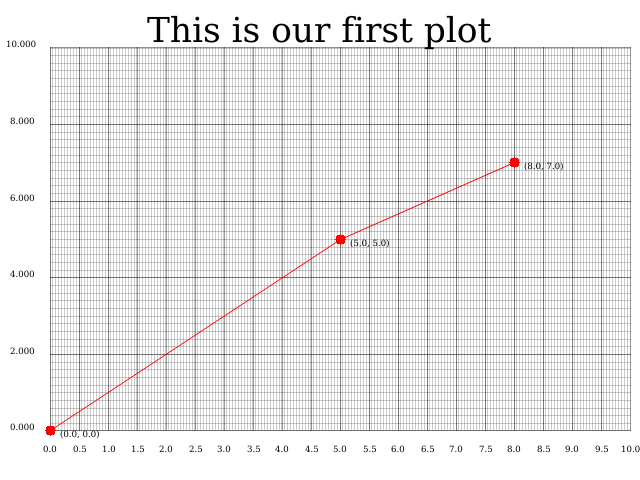
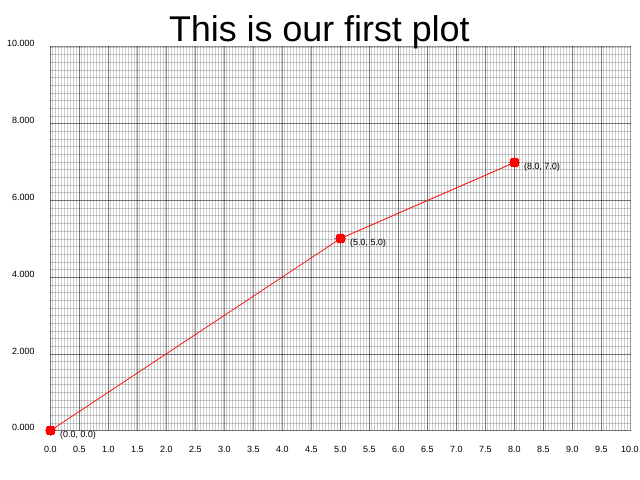
Update

diff --git a/src/lib.rs b/src/lib.rs
@@ -13,7 +13,7 @@ fn main() -> Result<(), Box<dyn std::error::Error>> {
     let mut backend = BitMapBackend::new("examples/outputs/0.png", (640,480));
     backend.open()?;
     let root:DrawingArea<_,_> = backend.into();
-    let font = Into::<FontDesc>::into("DejaVu Serif").resize(20.0);
+    let font = Into::<FontDesc>::into("Arial").resize(20.0);
     root.fill(&RGBColor(255,255,255))?;
     let mut chart = ChartBuilder::on(&root)
         .caption("y=x^2", &font)
@@ -129,7 +129,7 @@ fn main() -> Result<(), Box<dyn std::error::Error>> {
     root.fill(&RGBColor(240,200,200))?;
 
     let root = root.apply_coord_spec(RangedCoord::<RangedCoordf32, RangedCoordf32>::new(0f32..1f32, 0f32..1f32, (0..640, 0..480)));
-    let font = Into::<FontDesc>::into("DejaVu Serif").resize(15.0);
+    let font = Into::<FontDesc>::into("Arial").resize(15.0);
 
     let dot_and_label = |x:f32,y:f32| {
         return EmptyElement::at((x,y))
@@ -162,7 +162,7 @@ fn main() -> Result<(), Box<dyn std::error::Error>> {
     root.fill(&RGBColor(255,255,255));
     let root = root.margin(10,10,10,10);
     // After this point, we should be able to draw construct a chart context
-    let font:FontDesc = Into::<FontDesc>::into("DejaVu Serif").resize(40.0);
+    let font:FontDesc = Into::<FontDesc>::into("Arial").resize(40.0);
     // Create the chart object
     let mut chart = ChartBuilder::on(&root)
         // Set the caption of the chart

diff --git a/examples/quick_start.rs b/examples/quick_start.rs
@@ -3,7 +3,7 @@ fn main() -> Result<(), Box<dyn std::error::Error>> {
     let mut backend = BitMapBackend::new("examples/outputs/0.png", (640, 480));
     backend.open()?;
     let root: DrawingArea<_, _> = backend.into();
-    let font = Into::<FontDesc>::into("DejaVu Serif").resize(20.0);
+    let font = Into::<FontDesc>::into("Arial").resize(20.0);
     root.fill(&RGBColor(255, 255, 255))?;
     let mut chart = ChartBuilder::on(&root)
         .caption("y=x^2", &font)

diff --git a/examples/histogram.rs b/examples/histogram.rs
@@ -3,7 +3,7 @@ fn main() -> Result<(), Box<dyn std::error::Error>> {
     let mut backend = BitMapBackend::new("examples/outputs/histogram.png", (640, 480));
     backend.open()?;
     let root: DrawingArea<_, _> = backend.into();
-    let font = Into::<FontDesc>::into("DejaVu Serif").resize(20.0);
+    let font = Into::<FontDesc>::into("Arial").resize(20.0);
     root.fill(&RGBColor(255, 255, 255))?;
 
     let mut chart = ChartBuilder::on(&root)

diff --git a/examples/stock.rs b/examples/stock.rs
@@ -12,7 +12,7 @@ fn main() -> Result<(), Box<dyn std::error::Error>> {
     let mut backend = BitMapBackend::new("examples/outputs/stock.png", (1024, 768));
     backend.open()?;
     let root: DrawingArea<_, _> = backend.into();
-    let font = Into::<FontDesc>::into("DejaVu Serif").resize(20.0);
+    let font = Into::<FontDesc>::into("Arial").resize(20.0);
     root.fill(&RGBColor(255, 255, 255))?;
 
     let (to_date, from_date) = (

diff --git a/src/style/font.rs b/src/style/font.rs
@@ -180,8 +180,8 @@ mod test {
 
     #[test]
     fn test_load_system_font() -> FontResult<()> {
-        let font_desc = FontDesc::new("ArialMT", 30.0);
-        assert_eq!(font_desc.get_name(), "ArialMT");
+        let font_desc = FontDesc::new("Arial", 30.0);
+        assert_eq!(font_desc.get_name(), "Arial");
 
         let (box_w, box_h) = font_desc.box_size("hello!")?;
         assert!(box_w > 0);

diff --git a/src/chart.rs b/src/chart.rs
@@ -225,7 +225,7 @@ where
         std::mem::swap(&mut target, &mut self.target);
         let target = target.unwrap();
 
-        let default_font = FontDesc::new("DejaVu Serif", 10.0);
+        let default_font = FontDesc::new("Arial", 10.0);
         let default_color = RGBColor(0, 0, 0);
         let default_label_style = TextStyle {
             font: &default_font,

diff --git a/examples/chart.rs b/examples/chart.rs
@@ -9,7 +9,7 @@ fn main() -> Result<(), Box<dyn std::error::Error>> {
 
     root_area.fill(&RGBColor(255, 255, 255))?;
 
-    let font: FontDesc = "DejaVu Serif".into();
+    let font: FontDesc = "Arial".into();
     let font_large = &font.resize(60.0);
     let font_small = &font.resize(40.0);
     let root_area = root_area
